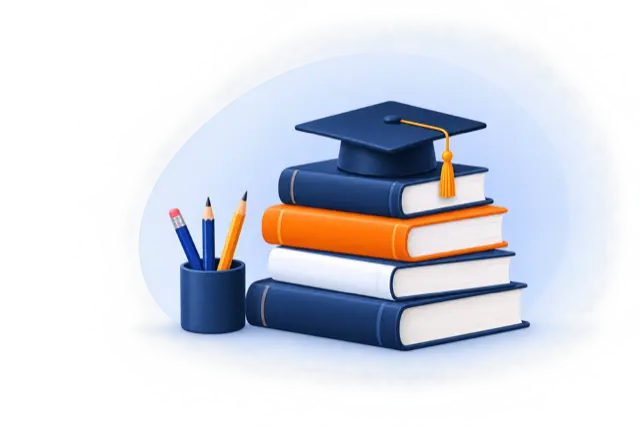
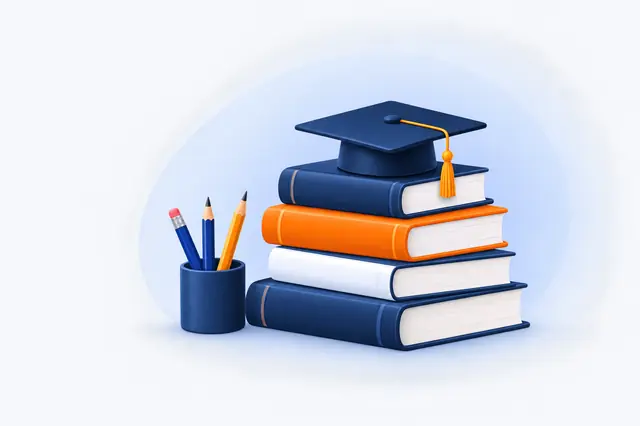
perf: optimize LCP hero image - est saving 61 KiB
- Flatten stack.png alpha to hero bg #F6F8FC and re-encode WebP q75
- stack-640.webp 53KB -> 9.4KB (-82%), stack-320.webp 4.0KB for mobile
- Add stack-640.avif 6.0KB (AVIF first in <picture>)
- Update index.html: <picture> with avif+webp srcset 320/640w, sizes 92vw/560px, img width 640 height 426 (was 1536x1024 mismatch), decoding async, fallback to WebP not PNG (1.6MB)
- Matches Lighthouse Improve image delivery Est savings 60.5 KiB (38.1 KiB from hero)

diff --git a/index.html b/index.html
@@ -553,8 +553,9 @@
     <div class="hero-art">
       <div class="art-glow"></div>
       <picture>
-        <source type="image/webp" srcset="stack-640.webp 640w" sizes="(max-width: 768px) 92vw, 640px">
-        <img src="stack.png" alt="Stack of books with graduation cap and pencils" class="hero-img" width="1536" height="1024" fetchpriority="high">
+        <source type="image/avif" srcset="stack-640.avif 640w" sizes="(max-width: 768px) 92vw, 560px">
+        <source type="image/webp" srcset="stack-320.webp 320w, stack-640.webp 640w" sizes="(max-width: 768px) 92vw, 560px">
+        <img src="stack-640.webp" alt="Stack of books with graduation cap and pencils" class="hero-img" width="640" height="426" fetchpriority="high" decoding="async" loading="eager">
       </picture>
     </div>
   </div>
